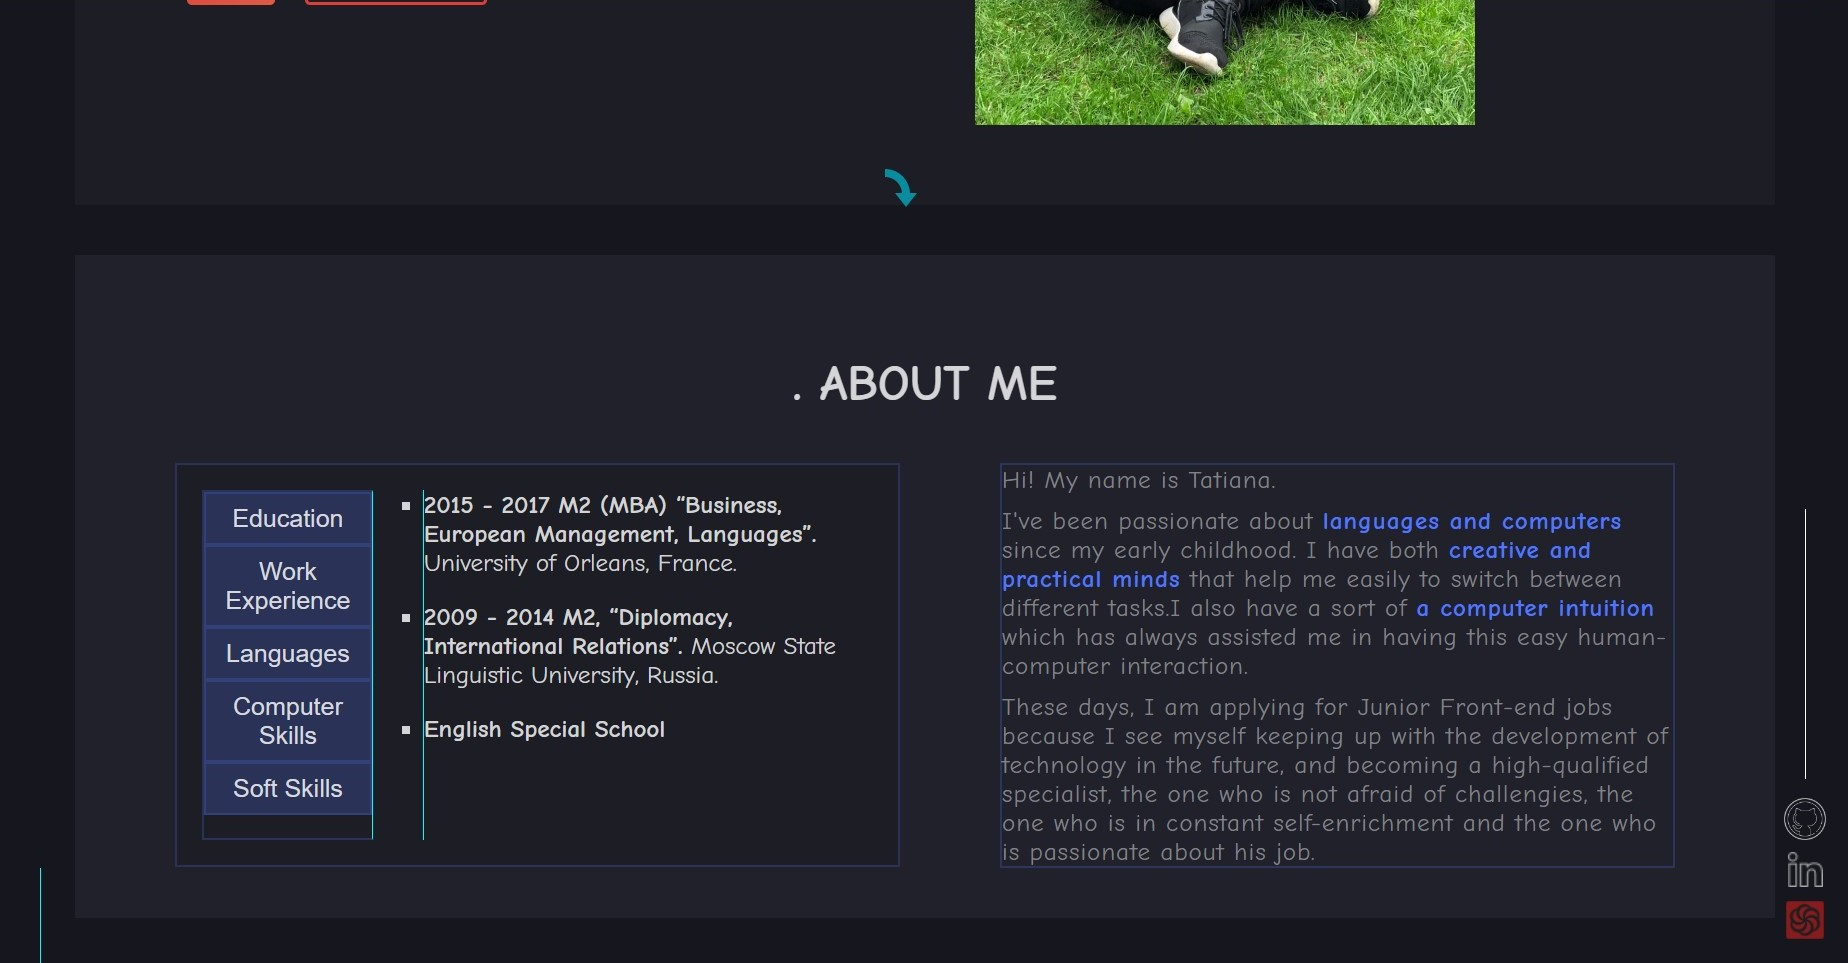
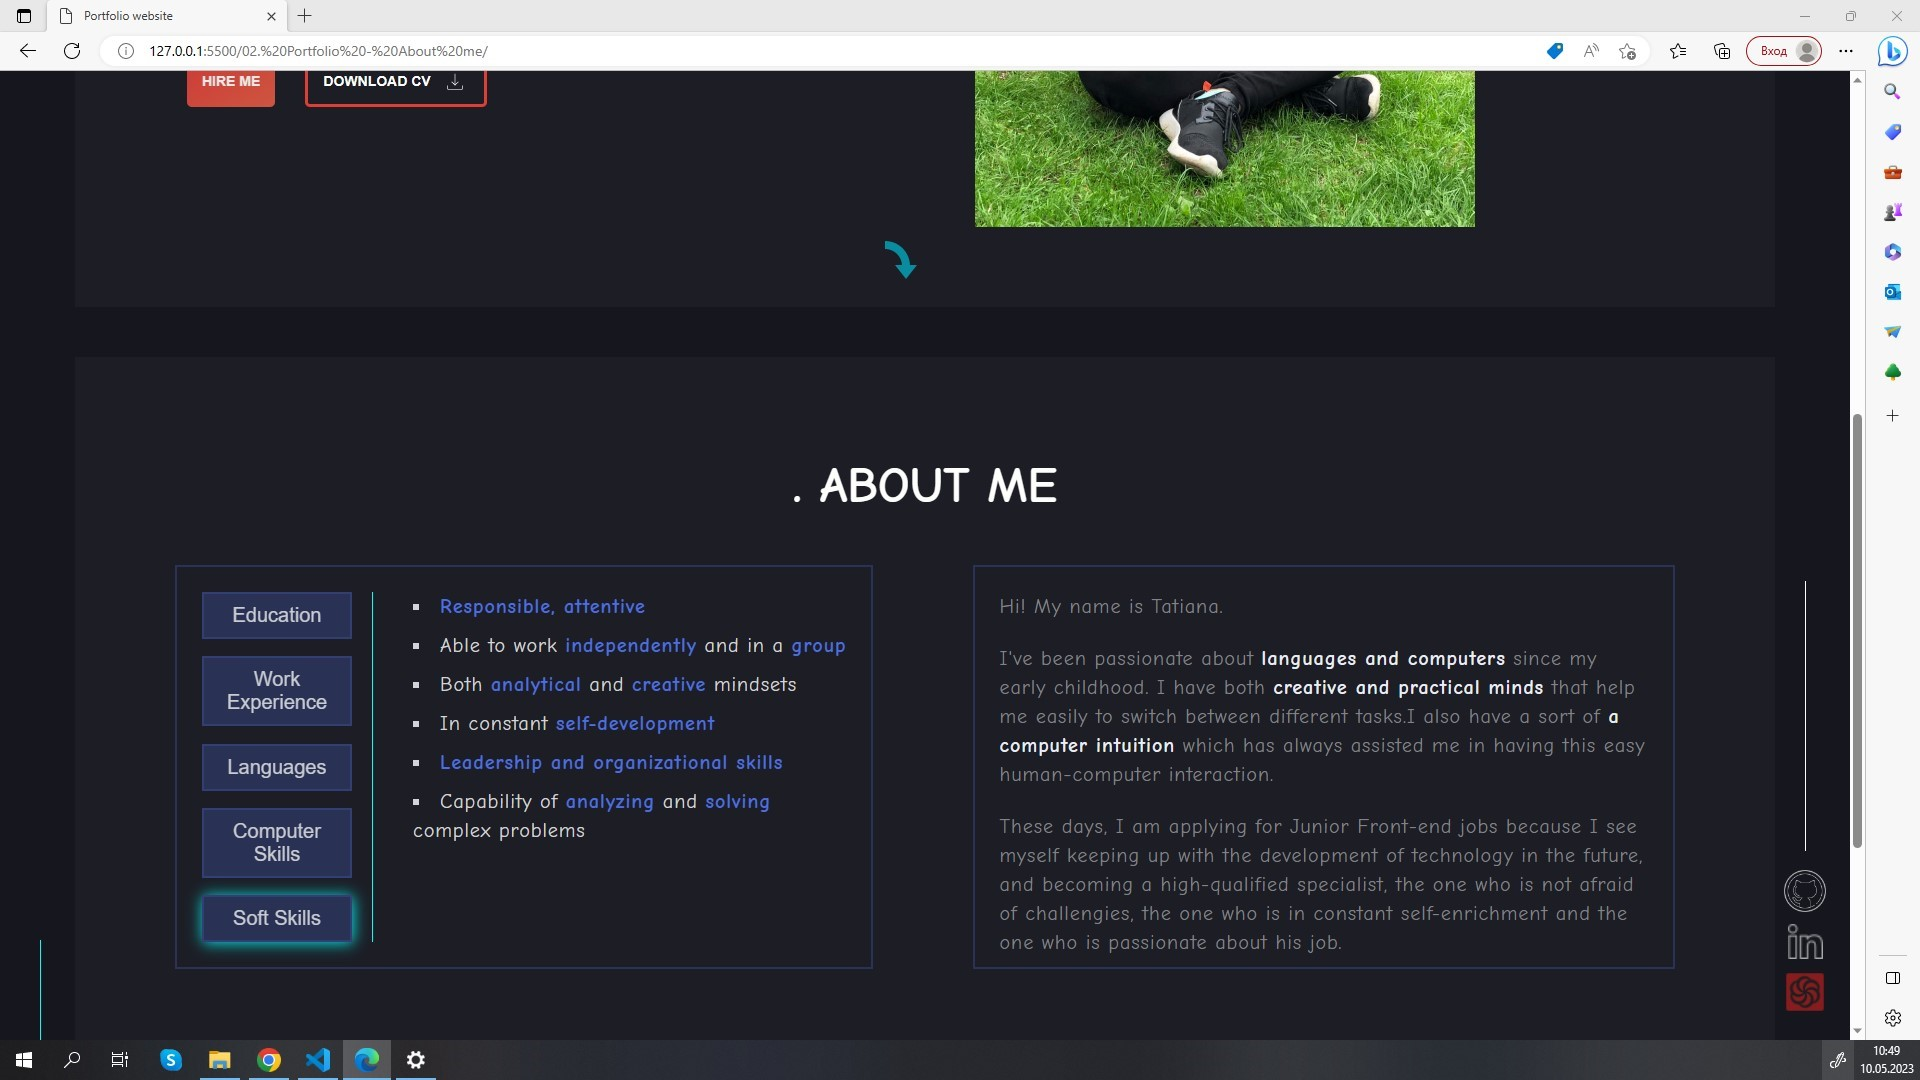
tiny pics added, pages - portfolio with tiny pics created, contact page was started, blog page is created and pics are added, bottom section is created

diff --git a/02. Portfolio - About me/index.html b/02. Portfolio - About me/index.html
@@ -19,6 +19,7 @@
 
     <section class="home-page" id="home">
         <div class="header">
+            <div class="container">
             <nav class="header__menu">
                 <ul>
                     <li><a href="#home">HOME</a></li>
@@ -29,6 +30,7 @@
                     <li><a href="#" id="alter-ego">ALTER EGO ></a></li>
                 </ul>
             </nav>
+            </div>
         </div>
         <section class="main">
             <aside class="left-field"></aside>
@@ -51,7 +53,7 @@
                                 </button>
                             </div>
                             <div class="bottom-arrow">
-                                <img src="img/arrow.png">
+                                <a href="#about"><img src="img/arrow.png"></a>
                             </div>
                         </div>
                         <div class="right-col">
@@ -163,9 +165,69 @@
             </section>
         </div>
     </section>
-    <section class="portfolio-page" id="portfolio">
+    <section class="portfolio-page portfolio" id="portfolio">
         <div class="container">
             <h3>. PORTFOLIO</h3>
+            <p class="links">
+                <a href="#">Ready Templates</a>
+                <a href="#">Personal Projects</a></p>
+            <div class="portfolio-gallery">
+                <div class="box"><img src="tiny_pics_portfolios/mogo1.jpg" alt=""></div>
+                <div class="box"><img src="tiny_pics_portfolios/mogo2.jpg" alt=""></div>
+                <div class="box"><img src="tiny_pics_portfolios/mogo3.jpg" alt=""></div>
+                <div class="box"><img src="tiny_pics_portfolios/mogo4.jpg" alt=""></div>
+                <div class="box"><img src="tiny_pics_portfolios/mogo5.jpg" alt=""></div>
+                <div class="box"><img src="tiny_pics_portfolios/mogo6.jpg" alt=""></div>
+                <div class="box"><img src="tiny_pics_portfolios/mogo7.jpg" alt=""></div>
+                <div class="box"><img src="tiny_pics_portfolios/mogo8.jpg" alt=""></div>
+                <div class="box"><img src="tiny_pics_portfolios/mogo9.jpg" alt=""></div>
+                <div class="box"><img src="tiny_pics_portfolios/mogo10.jpg" alt=""></div>
+                <div class="box"><img src="tiny_pics_portfolios/mogo11.jpg" alt=""></div>
+                <div class="box"><img src="tiny_pics_portfolios/PiperNet1.jpg" alt=""></div>
+                <div class="box"><img src="tiny_pics_portfolios/PiperNet2.jpg" alt=""></div>
+                <div class="box"><img src="tiny_pics_portfolios/John1.jpg" alt=""></div>
+                <div class="box"><img src="tiny_pics_portfolios/John2.jpg" alt=""></div>
+                <div class="box"><img src="tiny_pics_portfolios/Watch1.jpg" alt=""></div>
+                <div class="box"><img src="tiny_pics_portfolios/Watch2.jpg" alt=""></div>
+                <div class="box"><img src="tiny_pics_portfolios/Watch3.jpg" alt=""></div>
+                <div class="box"><img src="tiny_pics_portfolios/Watch4.jpg" alt=""></div>
+            </div>
+        </div>
+    </section>
+    <section class="blog-page" id="blog">
+        <div class="container">
+            <h3>. BLOG</h3>
+            <section class="blog-section">
+                <div class="post-box">
+                    <img src="img/pic1.jpg" alt="">
+                    <p class="date">10 Mai 2023</p>
+                    <h4 class="title">THIS IS MY FIRST ARTICLE</h4>
+                    <p class="post-text">Lorem, ipsum dolor sit amet consectetur adipisicing elit. Sint expedita saepe asperiores sequi illo quos necessitatibus id commodi natus! Repellat porro in dolorem voluptatem laboriosam! <a href="" class="read-more">Read more -></a></p>
+                </div>
+                <div class="post-box">
+                    <img src="img/pic3.jpg" alt="">
+                    <p class="date">10 Mai 2023</p>
+                    <h4 class="title">THIS IS MY FIRST ARTICLE</h4>
+                    <p class="post-text">Lorem, ipsum dolor sit amet consectetur adipisicing elit. Sint expedita saepe asperiores sequi illo quos necessitatibus id commodi natus! Repellat porro in dolorem voluptatem laboriosam! <a href="" class="read-more">Read more -></a></p>
+                </div>
+                <div class="post-box">
+                    <img src="img/pic2.jpg" alt="">
+                    <p class="date">10 Mai 2023</p>
+                    <h4 class="title">THIS IS MY FIRST ARTICLE</h4>
+                    <p class="post-text">Lorem, ipsum dolor sit amet consectetur adipisicing elit. Sint expedita saepe asperiores sequi illo quos necessitatibus id commodi natus! Repellat porro in dolorem voluptatem laboriosam!</p> <p><a href="" class="read-more">Read more -></a></p>
+                    
+                </div>
+            </section>
+        </div>
+    </section>
+    <section class="contact-page">
+      <div class="container">
+        <h3>.CONTACT</h3>
+      </div>
+    </section>
+    <section class="bottom-section">
+        <div class="container">
+            <p class="copyright">COPYRIGHT @2023. ALL RIGHTS RESERVED</p>
         </div>
     </section>
 

diff --git a/02. Portfolio - About me/css/styles.css b/02. Portfolio - About me/css/styles.css
@@ -1,5 +1,16 @@
 :root {
   font-size: 62.5%;
+  --super-white: #fefffd;
+  --white: #eaedf4;
+  --white2: #edeef3;
+  --green: #09bc56;
+  --dark-green: #1f523f;
+  --grey: #828387;
+  --black: #14141e;
+  --dark-blue: #1b2235;
+  --container: rgb(28, 29, 37);
+  --body: rgb(22, 23, 30);
+  --dark-violet: rgb(24, 20, 30);
 }
 
 body,
@@ -48,6 +59,7 @@ body {
 }
 .header {
   max-width: 170rem;
+  border-bottom: 0.1rem solid rgba(255, 255, 255, 0.2);
 }
 
 .container {
@@ -58,7 +70,6 @@ body {
   display: flex;
   flex-direction: row;
   justify-content: flex-end;
-  border-bottom: 0.1rem solid rgba(255, 255, 255, 0.2);
 }
 
 .header__menu > ul > li {
@@ -74,10 +85,10 @@ body {
   font-size: 2.5rem;
   font-weight: 700;
 }
-a:hover {
+/* a:hover {
   opacity: 1;
   text-shadow: 1px 1px 15px white;
-}
+} */
 
 #alter-ego {
   color: #ef3636;
@@ -169,7 +180,7 @@ a:hover {
 }
 .hire_me_btn:hover {
   opacity: 1;
-   box-shadow: 1px 1px 15px #ef3636;
+  box-shadow: 1px 1px 15px #ef3636;
 }
 
 .downloadCV_btn {
@@ -265,6 +276,7 @@ a:hover {
 
 #github:hover, #linkedin:hover, #codewars:hover {
   opacity: 1;
+  text-shadow: 1px 1px 15px white;
 }
 
 .bottom-arrow {
@@ -311,7 +323,7 @@ h3 {
   max-width: 75rem;
   height: 35rem;
   width: 100%;
-  background-color: rgba(28, 29, 37, 255);
+  background-color: rgb(22, 23, 30);
   border: 2px solid rgb(72, 101, 206, 0.3);
   padding: 2.5rem 2rem 2.5rem 2.5rem;
   color: rgba(255, 255, 255, 0.812);
@@ -327,6 +339,7 @@ h3 {
   padding-right: 2rem; 
   cursor: pointer;
   border-right: 1px solid #00ffff;
+  background-color: rgb(22, 23, 30);
 }
 .study_left-col button {
   border: 2px solid rgb(72, 101, 206, 0.3);
@@ -424,4 +437,101 @@ h3 {
   background-color: rgb(28, 29, 37);
   padding-top: 10rem;
   padding-bottom: 5rem;
+}
+.portfolio-gallery {
+  display: grid;
+  grid-template-columns: 1fr 1fr 1fr;
+  grid-template-rows: 1fr 1fr 1fr 1fr 1fr 1fr;
+  /* background-color: rgb(72, 101, 206, 0.3);
+  border: 0.2rem solid rgb(72, 101, 206, 0.3); */
+  gap: 3rem;
+  margin-bottom: 5rem;
+}
+.portfolio  .links {
+  text-align: center;
+  margin-bottom: 3rem;
+
+}
+.portfolio  .links a {
+  color: #828387;
+  font-size: 2.5rem;
+  opacity: 1;
+}
+.portfolio  .links a:first-child {
+  margin-right: 5rem;
+}
+.box {
+  background-color: rgb(28, 29, 37);
+}
+.box img {
+  width: 100%;
+  height: 25rem;
+}
+
+/************************************************BLOG******************************************/
+.blog-page {
+  max-width: 170rem;
+  margin: 5rem auto;
+  background-color: rgb(28, 29, 37);
+  padding-top: 10rem;
+  padding-bottom: 5rem;
+}
+.blog-section {
+  display: grid;
+  grid-template-columns: 1fr 1fr 1fr;
+  grid-template-rows: 1fr;
+  /* background-color: rgb(72, 101, 206, 0.3);
+  border: 0.2rem solid rgb(72, 101, 206, 0.3); */
+  gap: 3rem;
+  margin-bottom: 5rem;
+}
+.post-box img {
+  width: 100%;
+  height: 25rem;
+  margin-bottom: 2rem;
+}
+.post-box .date {
+  margin-bottom: 1rem;
+}
+.title {
+  color: var(--super-white);
+  font-size: 2.5rem;
+  font-weight: bold;
+  margin-bottom: 1rem;
+ 
+}
+.post-box p{
+  color: #828387;
+  font-size: 2rem;
+  line-height: 2.9rem;
+  letter-spacing: 0.1rem;
+}
+
+.read-more {
+  color: rgb(81, 118, 254);
+  opacity: 1;
+  float: right;
+  margin-top: 2rem;
+}
+
+/******************************CONTACT****************/
+.contact-page {
+  max-width: 170rem;
+  margin: 5rem auto;
+  background-color: rgb(28, 29, 37);
+  padding-top: 10rem;
+  padding-bottom: 5rem;
+}
+
+/******************************BOTTOM****************/
+.bottom-section {
+  max-width: 170rem;
+  margin: 2rem auto 0 auto;
+  background-color: rgb(22, 23, 30);
+  padding-bottom: 5rem;
+}
+.bottom-section p {
+  text-align: center;
+  font-size: 1.5rem;
+  font-weight: bold;
 }
